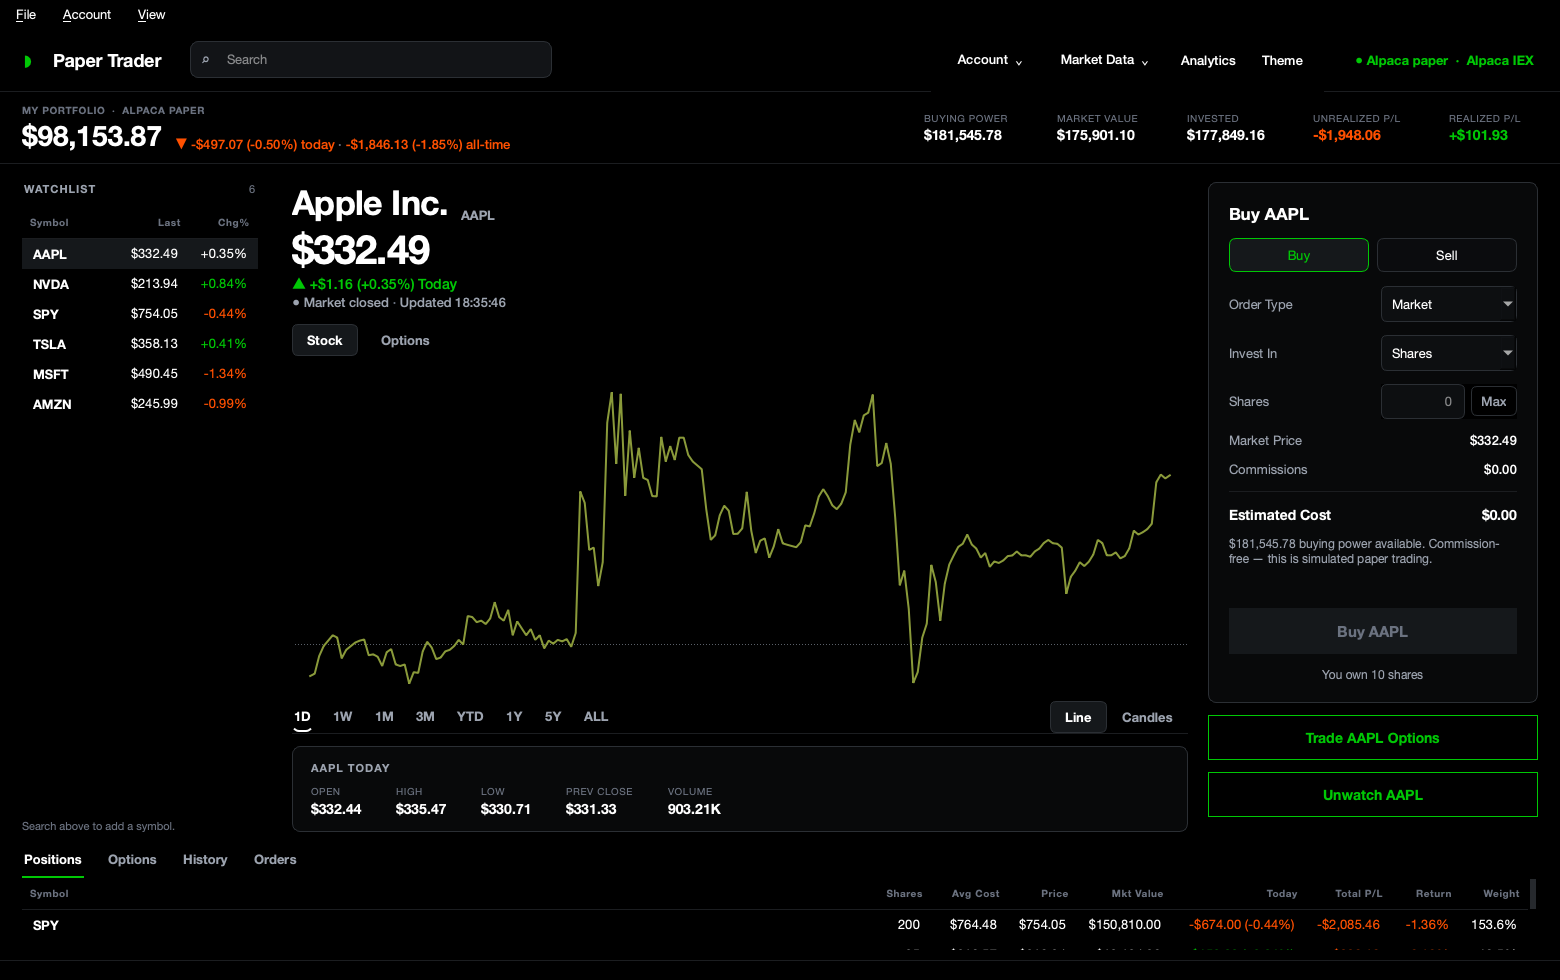
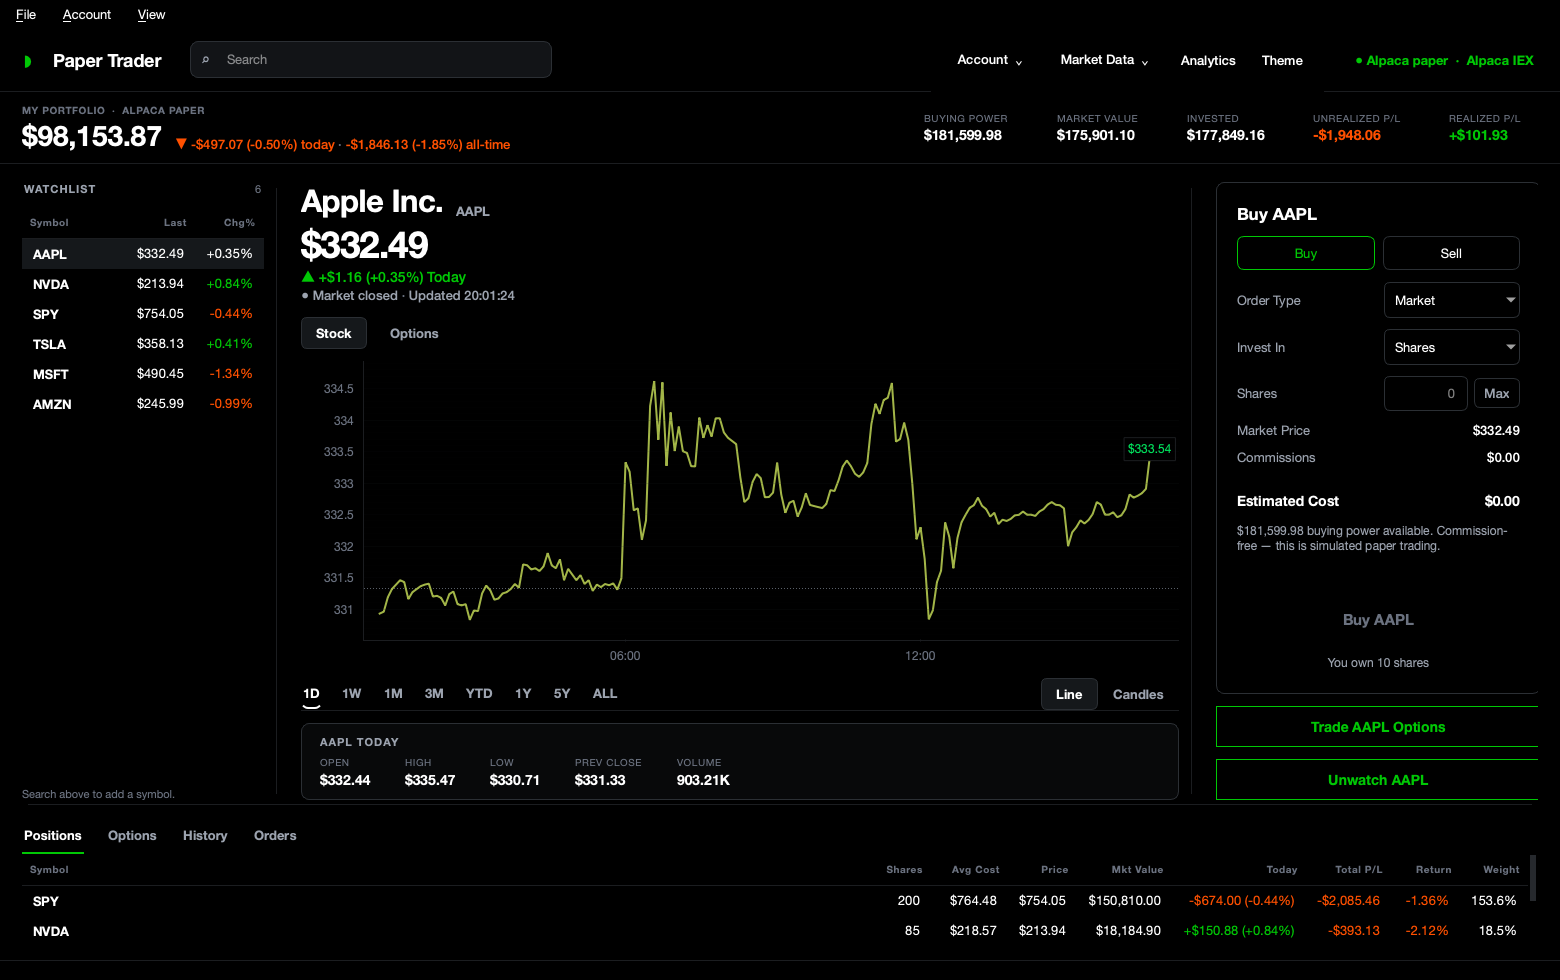
Fix layout regressions, smooth chart zoom, keep the classic UI runnable
Layout
- The three columns are a splitter again: the watchlist rail, chart and order
  card can be dragged, with minimums and maximums so none can be collapsed.
- The blotter can no longer be dragged shut — it keeps its tab bar and a row.
- Removed an explicit minimumHeight on the top pane: it overrode the minimum
  its own layout computed, which let the order card be drawn on top of itself.
  The right column now scrolls instead of being crushed, and the window's
  minimum height is what the page actually needs.

Chart
- Readable: price and time axes in both views, faint horizontal rules, and a
  tag pinned to the right edge showing the last price.
- Zoom is one atomic range change instead of x-then-y: a custom ViewBox
  computes the matching price window up front, halving the work per notch and
  removing the frame where the price axis lagged behind. 8k bars went from
  17.0ms to 5.0ms per notch; every range is now inside a 60fps budget.
- The hot paths (zoom fit, hover, highlight) read cached numpy arrays instead
  of walking the candle list, and the control row reserves space for the hover
  readout and Reset button so it stops shuffling.

Classic UI
- `run.py --old` runs the pre-rework interface from paper_trader/ui_legacy/,
  sharing every widget whose shape didn't change. theme.apply_theme takes a
  legacy flag so shared widgets follow whichever window is on screen.

Tests: 167 checks across five suites; test_ui.py gains layout, splitter,
[…]

diff --git a/paper_trader/ui/widgets/chart.py b/paper_trader/ui/widgets/chart.py
@@ -273,7 +273,8 @@ class ChartWidget(QWidget):
         # Where the series ends, and what it ends at — the two things you look
         # for first on a price chart.
         self._last_dot = pg.ScatterPlotItem(size=8, pen=pg.mkPen(None))
-        self._last_label = pg.TextItem(anchor=(1.05, 0.5))
+        # A filled tag, so the level stays readable where it overlaps the line.
+        self._last_label = pg.TextItem(anchor=(1.05, 0.5), ensureInBounds=True)
         for item in (self._baseline, self._line_item, self._line_hi, self._candle_item,
                      self._last_dot, self._last_label,
                      self._vline, self._dot, self._time_label):
@@ -435,6 +436,8 @@ class ChartWidget(QWidget):
         self._plot.getAxis("left").setWidth(62)
         self._baseline.setPen(
             pg.mkPen(c["baseline"], width=1, style=Qt.PenStyle.DotLine))
+        self._last_label.fill = pg.mkBrush(c["background"])
+        self._last_label.border = pg.mkPen(c["axis"])
         self._vline.setPen(pg.mkPen(c["crosshair"], width=1))
         self._time_label.setColor(c["text"])
         self._sync_axis_visibility()

diff --git a/README.md b/README.md
@@ -16,6 +16,10 @@ Alpaca APIs.
 
 ![Paper Trader — options chain, ticket and positions](docs/screenshot-options.png)
 
+<p align="center"><em>The previous interface, still available with <code>run.py --old</code>:</em></p>
+
+![Paper Trader — the classic interface](docs/screenshot-classic.png)
+
 <p align="center"><em>Candlestick view (Alpaca) and the offline simulator with positions:</em></p>
 
 <p align="center">
@@ -87,7 +91,7 @@ source .venv/bin/activate          # Windows: .venv\Scripts\activate
 # 2. Install dependencies
 pip install -r requirements.txt
 
-# 3. Run
+# 3. Run  (add --old for the previous interface)
 python run.py                      # uses Alpaca if keys are set, else Yahoo
 python run.py --demo               # fully offline: local simulator + synthetic data
 ```
@@ -121,7 +125,7 @@ from the **Account** and **View → Market Data Source** menus.
 python tests/test_engine.py        # trading engine, portfolio, analytics, persistence
 python tests/test_options.py       # Black-Scholes, options engine, chain, settlement
 python tests/test_data.py          # data cache, synthetic provider, Yahoo parser
-python tests/test_ui.py            # chart zoom, empty states, theming, reset (offscreen)
+python tests/test_ui.py            # chart zoom, layout, empty states, theming (offscreen)
 python tests/test_alpaca.py        # live Alpaca provider + broker (skips without keys)
 ```
 
@@ -140,6 +144,7 @@ python tests/test_alpaca.py        # live Alpaca provider + broker (skips withou
 | **File menu** | New / Open / Rename / Reset / Save session. |
 | **Account menu** | Trading account, Alpaca API keys, Analytics (`Ctrl+A`) — Sharpe, volatility, drawdown, win rate, equity curve. |
 | **View menu** | Toggle dark/light (`Ctrl+D`); switch the market-data source; focus search. |
+| **Resizing** | The bars between the watchlist, chart and order card — and between the chart and the blotter — are draggable, with minimums so no pane can be dragged out of existence. |
 
 **Limit orders** rest until the market crosses your price (buys fill at/under,
 sells at/over), then execute at the market price on the next tick — even while you
@@ -158,6 +163,13 @@ and needs no options data feed. Market orders fill at the ask (buys) / bid (sell
 for realistic slippage; short positions are **cash-secured** (collateral held out
 of buying power); and expired contracts auto-settle — long ITM exercised, short ITM
 assigned, everything OTM expires worthless.
+
+**The previous interface** is still there: `python run.py --old` runs the
+pre-rework layout (portfolio card, watchlist-with-search rail, chart with its
+range buttons on top, filled area line) against the same sessions, brokers and
+data providers. It lives in `paper_trader/ui_legacy/` and shares every widget
+whose shape didn't change, so there is one implementation of the options chain,
+the blotter tables and the dialogs — only the framing differs.
 
 Sessions and settings are stored under `~/.paper_trader/` (override with
 `PAPER_TRADER_HOME=/some/dir python run.py`).
@@ -206,7 +218,7 @@ show "is allowed to import":
 
 ```
 paper_trader/
-├── run.py                     # launcher (python run.py [--demo] [--home DIR])
+├── run.py                     # launcher (python run.py [--demo] [--old] [--home DIR])
 ├── requirements.txt
 ├── tests/
 │   ├── test_engine.py         # engine, portfolio, analytics, persistence
@@ -253,11 +265,17 @@ paper_trader/
         ├── controllers/
         │   ├── data_feed.py   # QThread worker polling market data
         │   └── broker_feed.py # QThread worker polling the remote broker
-        └── widgets/
-            ├── portfolio_bar.py   price_header.py   chart.py
-            ├── watchlist.py       trade_panel.py
-            ├── options_chain.py   option_ticket.py  options_positions.py
-            └── positions_table.py history_table.py
+        │   └── widgets/
+        │       ├── portfolio_bar.py   price_header.py   chart.py
+        │       ├── watchlist.py       trade_panel.py
+        │       ├── options_chain.py   option_ticket.py  options_positions.py
+        │       └── positions_table.py history_table.py
+        │
+        └── ui_legacy/             # ── THE PREVIOUS UI (run.py --old) ──
+            ├── main_window.py     # the earlier composition root
+            └── widgets/           # only the views whose layout changed:
+                ├── chart.py       price_header.py   portfolio_bar.py
+                └── trade_panel.py watchlist.py
 ```
 
 ### Data flow
